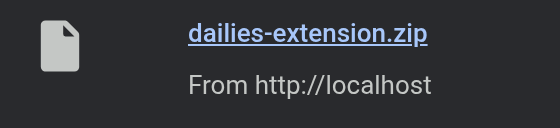
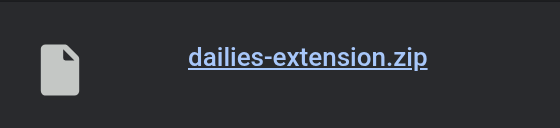
5-nux: first-run fixes from the new-user walk
- Page title is Dailies, with one line under it saying what it does; the
  local-only sentence is merged into that line. Today becomes a section.
- Extension not found: the install card sits above the list.
- Connected with nothing logged today: one line above the list says to
  play a game; it leaves once a game is logged.
- Steps: unzip into a folder you'll keep and why, a paste hint next to
  Copy address, and a final step to pin Dailies. The steps are an <ol>.
- The install card and the hint enter in 200ms with a 4px rise and leave
  in 120ms, opacity and transform only; a 150ms fade with reduced motion.
- install-shots.mjs downloads a blob from a page with no origin, so the
  download list shows no host; it checks the item for a URL before the
  shot. Download illustrations regenerated.

Changed region(s): [[0.3339, 0.1562, 0.7893, 0.75], [0.0607, 0.1562, 0.1518, 0.4688], [0.0607, 0.5312, 0.1518, 0.75]]

diff --git a/dashboard/src/Install.tsx b/dashboard/src/Install.tsx
@@ -14,10 +14,10 @@ function Shot({ name, alt }: { name: string; alt: string }) {
 }
 
 /**
- * Shown while the extension is not found. Three plain steps; the page swaps them for today's rows
- * as soon as the extension's content script posts its state, with no reload.
+ * Shown above today's list while the extension is not found. Four plain steps; the page swaps them for
+ * today's rows as soon as the extension's content script posts its state, with no reload.
  */
-export function Install({ check, checking }: { check: () => void; checking: boolean }) {
+export function Install({ check, checking, leaving }: { check: () => void; checking: boolean; leaving: boolean }) {
   const [copy, setCopy] = useState<keyof typeof COPY>("idle");
   const revert = useRef<number | undefined>(undefined);
   useEffect(() => () => window.clearTimeout(revert.current), []);
@@ -37,12 +37,14 @@ export function Install({ check, checking }: { check: () => void; checking: bool
   };
 
   return (
-    <section className="notice install" data-panel>
-      <h2 className="section-title">Install the extension</h2>
+    <section className="notice install enter" data-panel data-leaving={leaving || undefined} aria-labelledby="install-title">
+      <h2 className="section-title" id="install-title">
+        Install the extension
+      </h2>
       <p className="quiet">Dailies reads your results with a small extension for Chrome and the browsers built on it, such as Edge, Brave and Helium.</p>
-      <ul className="steps">
+      <ol className="steps">
         <li className="step">
-          <p>Download the extension and unzip it into a folder you will keep.</p>
+          <p>Download the extension and unzip it into a folder you'll keep, such as Documents. Chrome loads the extension from that folder, so deleting it removes the extension.</p>
           <a className="primary" href={__EXTENSION_URL__} download>
             Download the extension
           </a>
@@ -52,19 +54,25 @@ export function Install({ check, checking }: { check: () => void; checking: bool
           <p>
             Open <span className="address">{ADDRESS}</span> in a new tab and turn on Developer mode at the top right.
           </p>
-          <button type="button" className="secondary" onClick={copyAddress} aria-live="polite">
-            {COPY[copy]}
-          </button>
+          <div className="act">
+            <button type="button" className="secondary" onClick={copyAddress} aria-live="polite">
+              {COPY[copy]}
+            </button>
+            <p className="meta">Chrome won't open this address from a link, so paste it into a new tab's address bar.</p>
+          </div>
           <Shot name="devmode" alt="The Developer mode switch, turned on, in Chrome's extensions page" />
         </li>
         <li className="step">
-          <p>Choose Load unpacked and pick the unzipped folder. This page finds the extension on its own.</p>
+          <p>Choose Load unpacked and pick that folder. This page finds the extension on its own.</p>
           <button type="button" className="secondary" onClick={check} disabled={checking}>
             {checking ? "Checking…" : "Check again"}
           </button>
           <Shot name="unpacked" alt="The Load unpacked button in Chrome's extensions page" />
         </li>
-      </ul>
+        <li className="step">
+          <p>Click the puzzle piece in the toolbar and pin Dailies, so you can open it any time.</p>
+        </li>
+      </ol>
     </section>
   );
 }

diff --git a/dashboard/src/App.tsx b/dashboard/src/App.tsx
@@ -8,6 +8,7 @@ import { GAMES, type Game } from "./games";
 import { History } from "./HistoryGrid";
 import { Install } from "./Install";
 import { localDay, longDay } from "./history";
+import { usePresence } from "./presence";
 import { result, tiles } from "./summary";
 
 /** Everything logged so far, grouped by game, oldest first. */
@@ -29,27 +30,40 @@ export function App() {
   const today = localDay(new Date());
   const log = useMemo(() => group(ext), [ext]);
   const connected = ext.status === "connected";
+  const install = usePresence(ext.status === "missing");
+  const hint = usePresence(connected && !ext.records.some((r) => r.date === today));
 
   return (
     <main className="page" data-status={ext.status} aria-busy={ext.status === "loading"}>
       <header className="head">
-        <div>
-          <h1 className="title">Today</h1>
-          <p className="meta">{longDay(today)}</p>
-        </div>
+        <h1 className="title">Dailies</h1>
         <Pill status={ext.status} lastLogAt={ext.lastLogAt} today={today} onClick={ext.request} />
-        <p className="meta local">Results stay in this browser only, with no sign-in and no upload.</p>
+        <p className="what quiet">Logs your daily word and map games from their own sites, in this browser only, with no sign-in and no upload.</p>
       </header>
 
-      <ul className="rows">
-        {GAMES.map((g) => (
-          <Row key={g.id} game={g} status={ext.status} today={today} log={log} />
-        ))}
-      </ul>
+      {install.mounted && <Install check={ext.request} checking={ext.waiting} leaving={install.leaving} />}
+
+      <section className="today" aria-labelledby="today-title">
+        <div className="today-head">
+          <h2 className="section-title" id="today-title">
+            Today
+          </h2>
+          <p className="meta">{longDay(today)}</p>
+        </div>
+        {hint.mounted && (
+          <p className="hint quiet enter" data-leaving={hint.leaving || undefined}>
+            Play any game below. Your result shows up here when you finish.
+          </p>
+        )}
+        <ul className="rows">
+          {GAMES.map((g) => (
+            <Row key={g.id} game={g} status={ext.status} today={today} log={log} />
+          ))}
+        </ul>
+      </section>
 
       {ext.status === "loading" && <div className="history-skel skel" aria-hidden="true" />}
       {connected && <History log={log} today={today} />}
-      {ext.status === "missing" && <Install check={ext.request} checking={ext.waiting} />}
       {ext.status === "error" && (
         <section className="notice" data-panel>
           <p>Couldn't read today's results</p>

diff --git a/dashboard/src/styles.css b/dashboard/src/styles.css
@@ -80,13 +80,15 @@ h1,
 h2,
 h3,
 p,
-ul {
+ul,
+ol {
   margin: 0;
   padding: 0;
   font: inherit;
 }
 
-ul {
+ul,
+ol {
   list-style: none;
 }
 
@@ -117,30 +119,30 @@ button {
   padding: 48px 48px 64px;
 }
 
-.head {
-  display: flex;
-  align-items: flex-start;
-  justify-content: space-between;
-  gap: 16px;
-  min-height: 48px;
-  margin-bottom: 24px;
-}
-
-.head > div {
-  flex: none;
-}
-
-/* The local-only note takes its own line under the title and date, without widening the title column. */
+/* The page title and the extension pill share a line; what Dailies does sits under them, full width. */
 .head {
   display: grid;
   grid-template-columns: max-content minmax(0, max-content);
-  row-gap: 2px;
+  justify-content: space-between;
+  align-items: center;
+  gap: 4px 16px;
+  margin-bottom: 32px;
 }
 
-.local {
+.what {
   grid-column: 1 / -1;
+  max-width: 720px;
   contain: inline-size;
   text-wrap: pretty;
+}
+
+/* Today: its title and date over the rows, with the one-line nudge between them once connected. */
+.today-head {
+  margin-bottom: 12px;
+}
+
+.hint {
+  margin-bottom: 12px;
 }
 
 .title {
@@ -376,6 +378,7 @@ button {
 
 .install {
   max-width: 800px;
+  margin: 0 0 40px;
 }
 
 .steps {
@@ -407,8 +410,21 @@ button {
   grid-area: text;
 }
 
-.step > :is(a, button) {
+.step > :is(a, button, .act) {
   grid-area: action;
+}
+
+/* An action with a short note beside it; the note drops under the button when there is no room. */
+.act {
+  justify-self: stretch;
+  display: flex;
+  flex-wrap: wrap;
+  align-items: center;
+  gap: 8px 12px;
+}
+
+.act > .meta {
+  flex: 1 1 200px;
 }
 
 .shot {
@@ -596,6 +612,25 @@ button {
   }
 }
 
+/* Blocks that come and go with the extension's state: in 200ms with a 4px rise, out 120ms. */
+.enter {
+  transition:
+    opacity 200ms var(--ease),
+    transform 200ms var(--ease);
+
+  @starting-style {
+    opacity: 0;
+    transform: translateY(4px);
+  }
+}
+
+.enter[data-leaving] {
+  opacity: 0;
+  transform: translateY(-4px);
+  transition-duration: 120ms;
+  pointer-events: none;
+}
+
 /* Hover: color only, fine pointers only. */
 @media (hover: hover) and (pointer: fine) {
   .line:hover {
@@ -642,7 +677,7 @@ button {
   }
 
   .head {
-    margin-bottom: 16px;
+    margin-bottom: 24px;
   }
 
   .pill {
@@ -738,6 +773,21 @@ button {
 @media (prefers-reduced-motion: reduce) {
   .card-slot {
     animation: fade 150ms var(--ease);
+  }
+
+  .enter,
+  .enter[data-leaving] {
+    transition: opacity 150ms var(--ease);
+  }
+
+  .enter[data-leaving] {
+    transform: none;
+  }
+
+  .enter {
+    @starting-style {
+      transform: none;
+    }
   }
 
   .pill:active,

diff --git a/dashboard/src/presence.ts b/dashboard/src/presence.ts
@@ -1,0 +1,21 @@
+import { useEffect, useState } from "react";
+
+/** Longest exit in styles.css (`.enter[data-leaving]`, and the reduced-motion fade). */
+const EXIT_MS = 150;
+
+/**
+ * Keeps a block mounted for its exit after `show` turns false, so it can fade out before it goes.
+ * `leaving` marks that exit; the block is removed once it has played.
+ */
+export function usePresence(show: boolean) {
+  const [mounted, setMounted] = useState(show);
+  useEffect(() => {
+    if (show) {
+      setMounted(true);
+      return;
+    }
+    const id = window.setTimeout(() => setMounted(false), EXIT_MS);
+    return () => window.clearTimeout(id);
+  }, [show]);
+  return { mounted: show || mounted, leaving: !show && mounted };
+}
